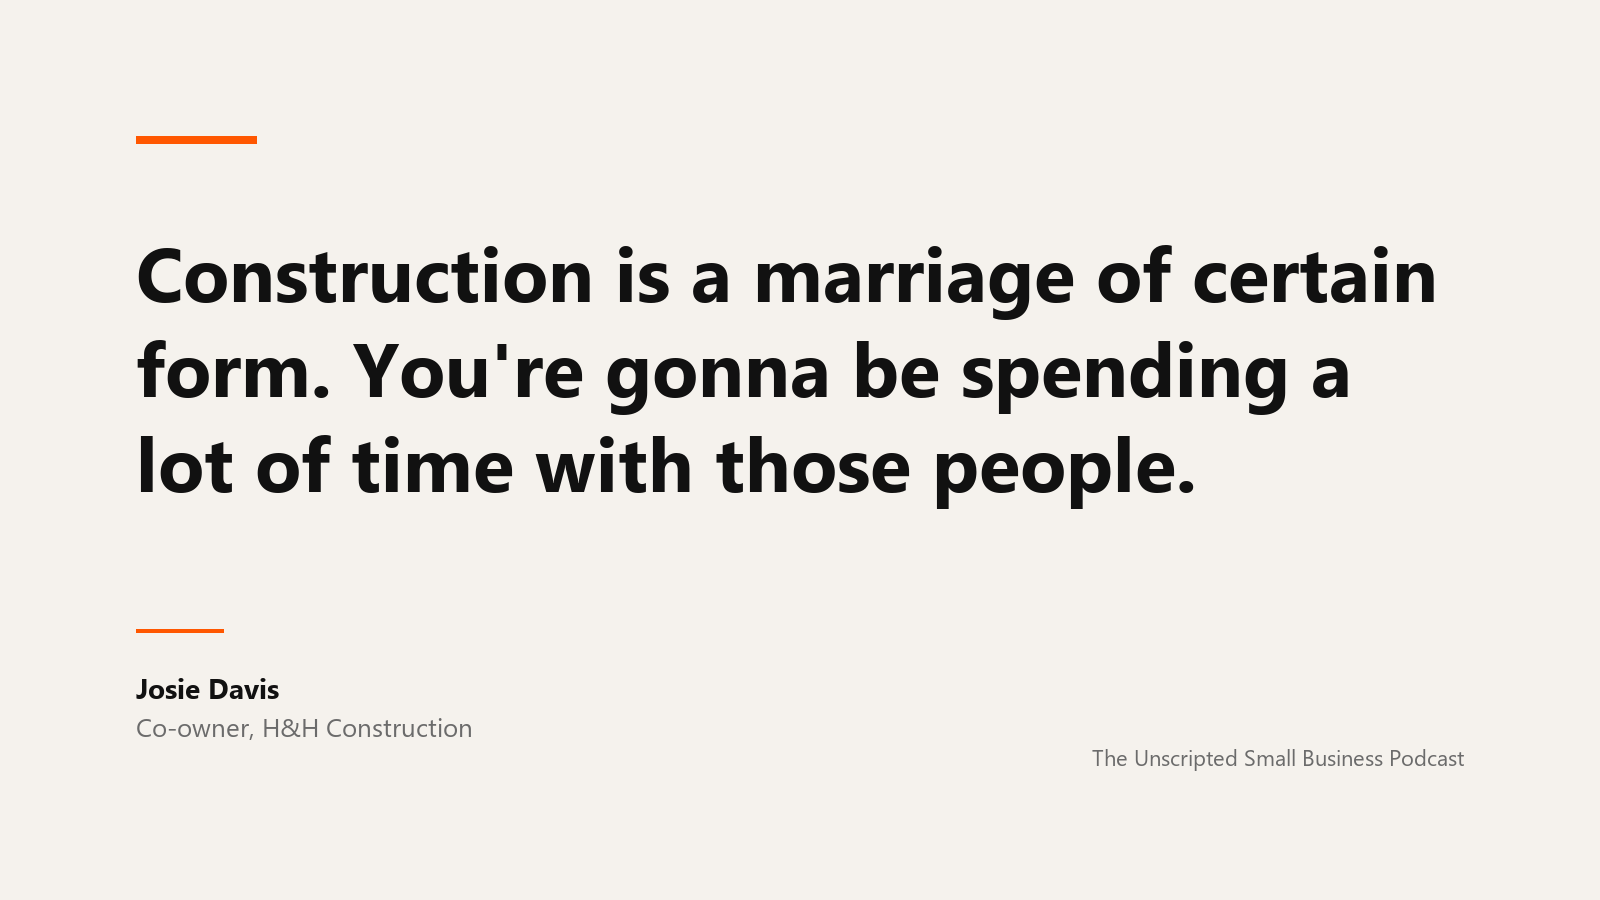
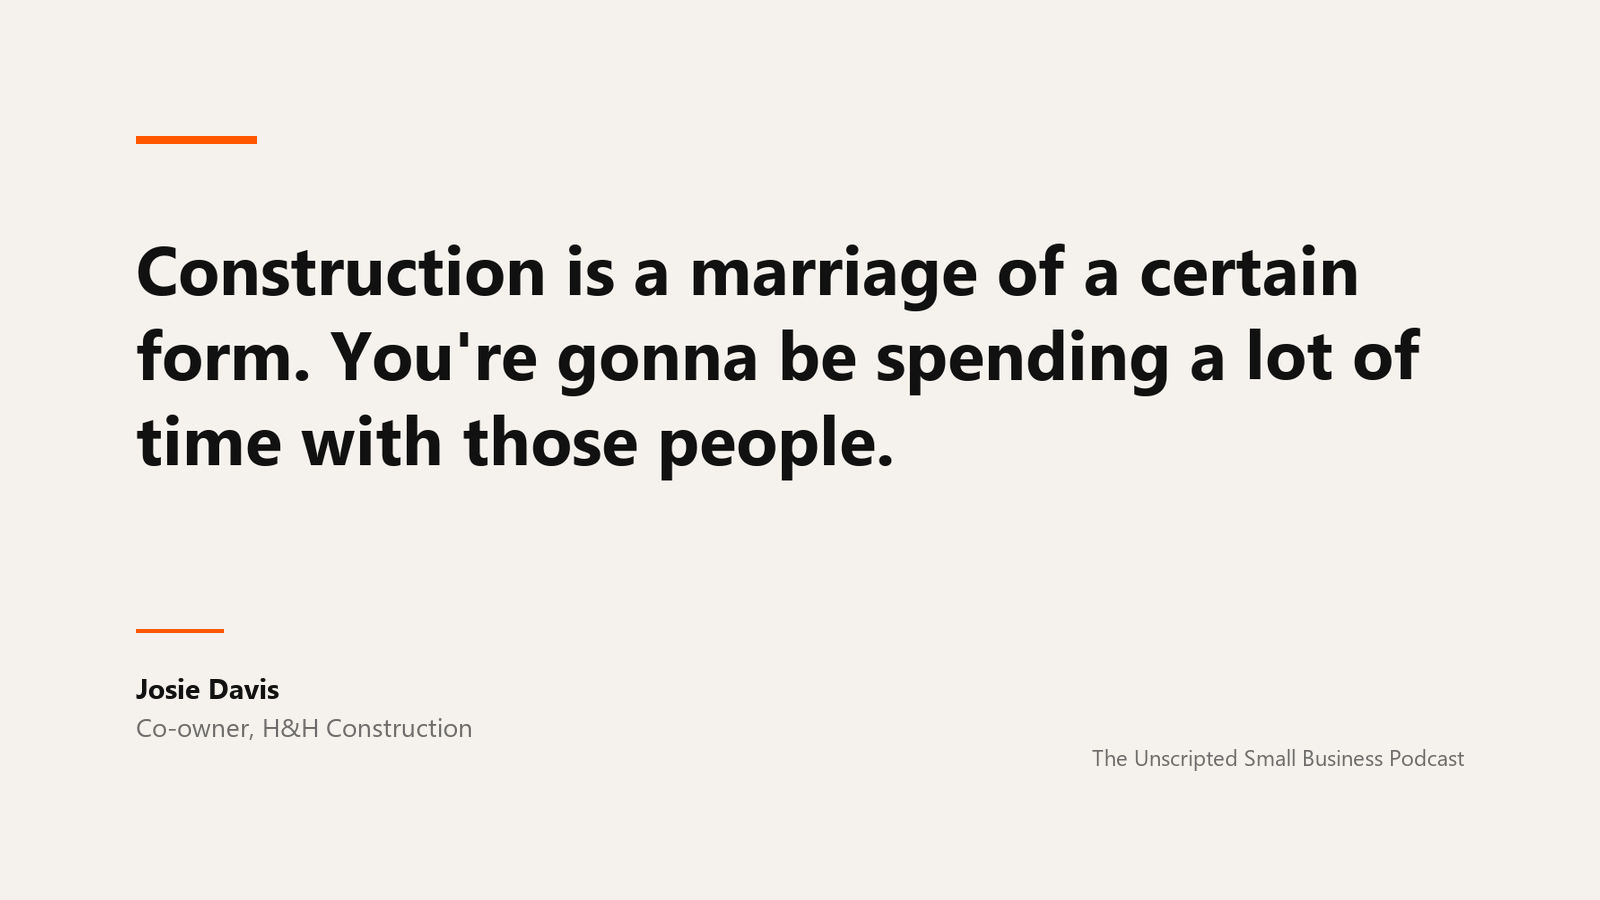
Editing pass for readers
- Cut the reviewer-facing Method footer, tool names in the chart subtitles,
  and product detours that interrupted the guide.
- Josie Davis quote card now matches the recording; dropped two quote cards.
- Small clarity fixes; publish date set to today.

Changed region(s): [[0.0625, 0.2489, 0.9062, 0.56]]

diff --git a/web/content/blogs/local-seo-for-service-businesses.md b/web/content/blogs/local-seo-for-service-businesses.md
@@ -1,8 +1,8 @@
 ---
 title: "Local SEO for Service-Based Businesses: An Owner's Guide"
-description: "An owner's guide to local SEO for service-based and home service businesses, worked on a real remodeler: the one Google Business Profile field that cost it half its town, and the prompts to check yours."
+description: "Local SEO for service businesses, worked on a real remodeler: the one Google Business Profile field that cost it half its town, and prompts to check yours."
 author: "Jeremy Rivera"
-date: "2026-09-28"
+date: "2026-10-05"
 ---
 
 Google decides whether a service business shows up in the map pack by asking three questions of each search: do you do the thing, are you near the person searching, and do people vouch for you. You control two of them. This guide runs all three on a real remodeler in Cookeville, Tennessee, and gives you the prompts to run the same checks on your own business in OpenSEO.
@@ -11,9 +11,7 @@ H&H Construction has a 5.0 rating from ten reviews, and all ten are five stars. 
 
 It still loses the north end of its own town for _kitchen remodeling_ to a showroom with a 4.6. The cause is one field in the profile and a review count the showroom has spent years building.
 
-You'll see both below, with the numbers, and you'll see how to find the same thing on your business in an afternoon. If you own a home service or trade business, or you're the person inside one who got handed "fix our Google," this guide is written for you. If you run these accounts for clients, there's a section near the end for you. And if you're building a software company rather than a service business, start with the sister piece, [SEO for Startups: A Founder's Handbook](/blogs/seo-for-startups).
-
-If you want an agent to do the legwork, connect [OpenSEO MCP](/docs/mcp) first so it can pull live profile, map and keyword data. If you're not sure where to start, use the [SEO coach](/docs/skills/seo-coach). If this is a new site or a business you took on this month, begin with [SEO project setup](/docs/skills/seo-project-setup). Each step below comes with a prompt you can paste in.
+If you want an agent to do the legwork, connect [OpenSEO MCP](/docs/mcp) first so it can pull live profile, map and keyword data. Each step below comes with a prompt you can paste in, and the [Local SEO skill](/docs/skills/local-seo) runs the profile, competitor and map checks together.
 
 ## Table of Contents
 
@@ -35,25 +33,17 @@ The map pack is the block of three businesses with a map that sits above the reg
 - Distance is how far you are from the person searching. You can't move the shop. You can stop measuring your rankings from inside it, which is the mistake most owners make.
 - Prominence is how well-known you are. Google puts it this way: "More reviews and positive ratings can help your business's local ranking." You control this too, over months.
 
-Knowing the three factors won't tell you which one is costing you jobs. To find that, you have to check each one against a real business, and that's what the next five sections do with a remodeler that has perfect reviews.
-
-And you're not the only one who's noticed there's money in the trades. [Benjamin Behrooz](https://unscriptedseo.com/benjamin-behrooz-empathy-blue-collar-marketing-ai/), who runs street-team marketing for home service companies out of Los Angeles, put it this way on the podcast:
-
-![A quote card reading: We know the future millionaires of this country are gonna be blue collar workers and right now other people know this too. Attributed to Benjamin Behrooz, Branding Los Angeles, from The Unscripted SEO Interview Podcast.](/blog/local-seo-for-service-businesses/quote-future-millionaires.png)
-
-Other people knowing it means a crowded map, and on a crowded map the settings you control carry more weight.
-
 ## Local keyword research: find the words customers use to hire you
 
 Before you touch your profile, find out what people type when they want to hire you. Your vocabulary and theirs often don't match. We ran H&H's main service, `kitchen remodeling`, through OpenSEO's [keyword research](/docs/skills/keyword-research), and this is the raw result:
 
-![OpenSEO Keyword Research results for the seed kitchen remodeling in the United States, September 28, 2026, dark theme. 149 keywords. Top rows: Kitchen Cabinets 246,000, High End Kitchen 201,000, Craft Street Kitchen 110,000, Kitchen Remodeling Near Me 74,000 with a difficulty score of 15, Kitchen Remodel 60,500, Preppy Kitchen 49,500.](/blog/local-seo-for-service-businesses/keyword-research-kitchen-remodeling-openseo.png)
+![OpenSEO Keyword Research results for the seed kitchen remodeling in the United States, September 28, 2026. 149 keywords. Top rows: Kitchen Cabinets 246,000, High End Kitchen 201,000, Craft Street Kitchen 110,000, Kitchen Remodeling Near Me 74,000 with a difficulty score of 15, Kitchen Remodel 60,500, Preppy Kitchen 49,500.](/blog/local-seo-for-service-businesses/keyword-research-kitchen-remodeling-openseo.png)
 
 Look at what sits above the one you want. `kitchen cabinets` at 246,000 a month is people shopping for boxes. `preppy kitchen` is a cooking channel. `kitchen island ideas` is somebody on a Sunday afternoon with a Pinterest board. Those searchers aren't hiring a contractor. Ranking for them would put you in front of [the wrong half of your audience](/blogs/wrong-half-of-your-audience).
 
-The search that pays is fourth: `kitchen remodeling near me`, 74,000 a month, difficulty 15. Right behind it is `kitchen remodel` at 60,500 and `kitchen renovation` at 18,100. Those three are your customer talking. The rest of the list is noise you'll be tempted to chase because the number is bigger.
+The search that pays is fourth: `kitchen remodeling near me`, 74,000 a month, difficulty 15. Right behind it are `kitchen remodel` at 60,500 and `kitchen renovation` at 18,100. Those three are your customer talking. The rest of the list is noise you'll be tempted to chase because the number is bigger.
 
-Those are national numbers, so use them to learn _which words_ people use. They don't tell you how many of those people live near you. OpenSEO can pull volume for a single city or county if you give it one, at an extra credit cost per seed. For a town the size of Cookeville, expect small numbers, and don't let that scare you off. [Jonathan Schüßler](https://unscriptedseo.com/how-one-freelancer-ranks-in-50-german-towns-with-programmatic-seo/), who does SEO for service businesses in Germany, built a wedding photography business on search terms other photographers ignored for being too small:
+Those are national estimates, so use them to learn _which words_ people use. They don't tell you how many of those people live near you. OpenSEO can pull volume for a single city or county if you give it one, at an extra credit cost per seed. For a town the size of Cookeville, expect small numbers, and don't let that scare you off. [Jonathan Schüßler](https://unscriptedseo.com/how-one-freelancer-ranks-in-50-german-towns-with-programmatic-seo/), who does SEO for service businesses in Germany, built a wedding photography business on search terms other photographers ignored for being too small:
 
 ![A quote card reading: Why not target the one where all the most expensive stuff is happening, but there's not many clicks. Attributed to Jonathan Schüßler, freelance SEO for service businesses, from The Unscripted SEO Interview Podcast.](/blog/local-seo-for-service-businesses/quote-not-many-clicks.png)
 
@@ -70,7 +60,7 @@ me volume and difficulty for each group, highest-value service first.
 
 ## Google Business Profile optimization starts with your categories
 
-Now pull your own Google Business Profile (called Google My Business until 2021), and read it like a stranger would. OpenSEO's [Local SEO skill](/docs/skills/local-seo) starts here too. This is H&H's profile, re-checked in OpenSEO on September 28, 2026:
+Now pull your own Google Business Profile (called Google My Business until 2021), and read it like a stranger would. This is H&H's profile in OpenSEO as of September 28, 2026:
 
 | Field                     | H&H Construction                                                                |
 | ------------------------- | ------------------------------------------------------------------------------- |
@@ -110,24 +100,25 @@ Search your main service from three or four different parts of your service area
 
 ### Local SEO for service area businesses
 
-Plenty of plumbers, cleaners and landscapers run what Google calls a service area business: no storefront, and the address hidden on the profile. The check works the same way: centre the grid on your address anyway, then add a check or two from the towns you most want work from. Those are the points that tell you whether your profile reaches the jobs you're driving to.
+Plenty of plumbers, cleaners and landscapers run what Google calls a service area business: no storefront, and the address hidden on the profile. The check works the same way: center the grid on your address anyway, then add a check or two from the towns you most want work from. Those are the points that tell you whether your profile reaches the jobs you're driving to.
 
 ```text
-Use OpenSEO to run a 3x3 local rank grid for "[main service]" centred on
-my business at [address], 8 km between points, on mobile. Show my position
-at each point. For every point where I'm not #1, name the business that is,
-and tell me whether it's closer to that point than I am.
+Use OpenSEO to run a 3x3 local rank grid for "[main service]" centered on
+my business, [business name], at [address], 8 km between points, on
+mobile. Show my position at each point. For every point where I'm not #1,
+name the business that is, and tell me whether it's closer to that point
+than I am.
 ```
 
 ## Local competitor analysis: compare your profile to the business outranking you
 
-Compare against the business taking the points you lost, even if it's smaller than the big names in town. (The [competitor analysis skill](/docs/skills/competitor-analysis) does this for websites; for map listings, the profile pull below is enough.) For H&H, that's Cookeville Kitchen Sales, a kitchen showroom 3.9 km north-north-east of H&H's office. The two profiles compare like this:
+Compare against the business taking the points you lost, even if it's smaller than the big names in town. For H&H, that's Cookeville Kitchen Sales, a kitchen showroom 3.9 km north-north-east of H&H's office. The two profiles compare like this:
 
-![Side-by-side comparison of two Google Business Profiles, both re-checked September 28, 2026. Category: H&H Construction, Remodeler; Cookeville Kitchen Sales, Kitchen remodeler. Rating 5.0 against 4.6. Reviews 10 against 67. Photos 35 against 67. Services listed 29 against 11. Attributes set 4 against 8. H&H wins rating and services; the competitor wins category, reviews, photos and attributes.](/blog/local-seo-for-service-businesses/gbp-head-to-head-openseo.png)
+![Side-by-side comparison of two Google Business Profiles, both as of September 28, 2026. Category: H&H Construction, Remodeler; Cookeville Kitchen Sales, Kitchen remodeler. Rating 5.0 against 4.6. Reviews 10 against 67. Photos 35 against 67. Services listed 29 against 11. Attributes set 4 against 8. H&H wins rating and services; the competitor wins category, reviews, photos and attributes.](/blog/local-seo-for-service-businesses/gbp-head-to-head-openseo.png)
 
 H&H wins on rating and on range of services. It loses on an exact-match category and a review count 6.7 times smaller, which map to two of Google's three factors: relevance and prominence.
 
-Before you blame distance, test it. We measured each grid point's distance to both businesses:
+Before you blame distance, test it. We measured the straight-line distance from each grid point to both businesses:
 
 | Grid point                      | To H&H    | To the competitor | Who's #1       |
 | ------------------------------- | --------- | ----------------- | -------------- |
@@ -135,10 +126,10 @@ Before you blame distance, test it. We measured each grid point's distance to bo
 | North                           | 8.0 km    | 5.3 km            | Competitor     |
 | North-east                      | 11.3 km   | 7.6 km            | Competitor     |
 | East                            | 8.0 km    | 6.6 km            | Competitor     |
-| West, centre, south-west, south | 0–11.3 km | 3.9–15.2 km       | H&H            |
+| West, center, south-west, south | 0–11.3 km | 3.9–15.2 km       | H&H            |
 | South-east                      | 11.3 km   | 12.6 km           | **Competitor** |
 
-Distance explains most of the map. Wherever the showroom is closer, it wins, and no setting will change where it's parked. But look at the two rows in bold. In the north-west the two businesses are the same distance away, and in the south-east H&H is 1.3 km _closer_. The showroom wins both. On a tie, the business whose category says "kitchen" and whose review count is 67 came out ahead. Those are the two rows you can change.
+Distance explains most of the map. Wherever the showroom is closer, it wins, and no setting will change where it's parked. But look at the two rows in bold. In the north-west the two businesses are the same distance away, and in the south-east H&H is 1.3 km _closer_. The showroom wins both. On a tie, the business whose category says "kitchen" and whose review count is 67 came out ahead, and you can change both of those.
 
 ```text
 Use OpenSEO to pull the Google Business Profile for [competitor name] in
@@ -154,30 +145,30 @@ You can fix a category in five minutes. You can't close a 10-to-67 gap in Google
 
 ![A quote card reading: Whoever has the most reviews, the most recent reviews is often gonna be near the top, especially if you're apples to apples. Attributed to Drew Dorenfest, founder of Client Magnet CRM, from The Unscripted SEO Interview Podcast.](/blog/local-seo-for-service-businesses/quote-most-recent-reviews.png)
 
-"Apples to apples" is the north-west corner of that grid: same distance, same service, and the tie goes to the pile of recent reviews. Drew's own fix is boring and it works: an automatic thank-you email with a direct link to leave a Google review, sent when a job is marked complete, so the ask doesn't depend on anyone's memory. Reviews are the local version of links, and if you want the website side too, the [link prospecting skill](/docs/skills/link-prospecting) finds local sites worth a mention and the free [backlink checker](/backlink-checker) shows who links to the business beating you.
+"Apples to apples" is the north-west corner of that grid: same distance, same service, and the tie goes to the pile of recent reviews. Drew's own fix is boring and it works: an automatic thank-you email with a direct link to leave a Google review, sent when a job is marked complete, so the ask doesn't depend on anyone's memory.
 
-The better moment is before the email, while you're still standing in the finished kitchen. Josie Davis, who co-owns H&H with her husband Alec, [described what their customers say at the end of a job](https://unscriptedsmallbusiness.com/dominating-cookeville-home-renovation-additions-remodeling-hh-construction/): "we don't know what we're gonna do once we're not talking to you every day." That's the sentence to listen for. A customer who says it will write you a review if you ask.
+The better moment is before the email, while you're still standing in the finished kitchen. Josie Davis, who runs H&H with her husband Alec, [described what their customers say at the end of a job](https://unscriptedsmallbusiness.com/dominating-cookeville-home-renovation-additions-remodeling-hh-construction/): "we don't know what we're gonna do once we're not talking to you every day." That's the sentence to listen for. A customer who says it will write you a review if you ask.
 
-![A quote card reading: Construction is a marriage of certain form. You're gonna be spending a lot of time with those people. Attributed to Josie Davis, co-owner of H&H Construction, from The Unscripted Small Business Podcast.](/blog/local-seo-for-service-businesses/quote-marriage-of-certain-form.png)
+![A quote card reading: Construction is a marriage of a certain form. You're gonna be spending a lot of time with those people. Attributed to Josie Davis, co-owner of H&H Construction, from The Unscripted Small Business Podcast.](/blog/local-seo-for-service-businesses/quote-marriage-of-certain-form.png)
 
 Her ten reviews are all five stars, and that's worth protecting while you grow the count. Ask the customers who would describe the job the way she describes the work. Don't buy reviews, and don't offer anything for them.
 
 ## Your local SEO checklist for this week
 
-### The fix: add `Kitchen remodeler` as an additional category
+### H&H's fix: add `Kitchen remodeler` as an additional category
 
 It's free and it takes about five minutes in the profile editor. The primary category stays `Remodeler`, so the general remodeling searches aren't touched. The business already does the work, and customers already say so in reviews. The category is the only place that doesn't.
 
-Set your expectations by the distance table. The two tie-break points, north-west and south-east, are where a category change has the best chance of showing up. The north-east corner, where the showroom is 3.7 km closer, should stay theirs. The goal is to stop losing the points where you're as close as they are.
+Set your expectations by the distance table. The two tie-break points, north-west and south-east, are where a category change has the best chance of showing up. The north-east corner, where the showroom is 3.7 km closer, should stay theirs.
 
-A snapshot isn't an experiment, so don't treat any change in the first week as proof. Change one thing, wait three weeks, and re-run the exact same grid.
+A grid is a snapshot of one day, so don't treat any change in the first week as proof.
 
 1. Add the missing category today, and change nothing else on the profile so you'll know what moved it.
 2. Through the month, ask each finished customer for a review in person on the day the job ends.
-3. In three weeks, re-run the grid with the same keyword, centre and spacing, and compare it point by point.
+3. In three weeks, re-run the grid with the same keyword, center and spacing, and compare it point by point.
 
 ```text
-Use OpenSEO to re-run my local rank grid for "[main service]": same centre
+Use OpenSEO to re-run my local rank grid for "[main service]": same center
 ([address]), same 3x3 size, same 8 km spacing, mobile. Compare it point by
 point with my last run from [date]. Tell me which points moved, which
 business holds #1 at each point now, and whether my profile changed in
@@ -186,13 +177,9 @@ between.
 
 ## Local SEO reporting for agencies and in-house teams
 
-Agencies and in-house marketers doing local SEO for clients get this job with an extra step: somebody else has to agree before anything changes. The grid is the thing that gets them to agree. An owner who has shrugged at ranking reports for years will believe a map of their own town with a competitor's name on the squares they lost.
+Agencies and in-house marketers get this job with an extra step: somebody else has to agree before anything changes. An owner who has shrugged at ranking reports for years will believe a grid of their own town with a competitor's name on the squares they lost.
 
-Keep the local SEO report on what the owner can feel. Drew said it better than any reporting template I've seen:
-
-![A quote card reading: Conversions are the only metric I care about. Traffic is nice, but conversions, more sales is something that the business owner can feel. Attributed to Drew Dorenfest, founder of Client Magnet CRM, from The Unscripted SEO Interview Podcast.](/blog/local-seo-for-service-businesses/quote-conversions-only-metric.png)
-
-Lead with the map, name the one fix, and end on the date you'll check it again. The proof is calls and quote requests from the north end of town; the grid shows where to look. The [SEO report skill](/docs/skills/seo-report) turns the whole run into a client-ready report, and the [competitive landscape skill](/docs/skills/competitive-landscape) maps the whole pack, including businesses that aren't beating you yet. If you're new to steering an agent through this, [How to Prompt Claude Code for SEO](/blogs/how-to-prompt-claude-code-for-seo) is the companion to the prompts on this page.
+Lead the local SEO report with the grid, name the one fix, and end on the date you'll check it again. The grid shows where to look, but the owner will judge the fix by calls and quote requests from the north end of town. The [SEO report skill](/docs/skills/seo-report) turns the whole run into a client-ready report.
 
 ```text
 Use OpenSEO to build a one-page local SEO report for [client], a [trade]
@@ -207,6 +194,4 @@ we'll re-check.
 
 If you show up at your front door and disappear a few miles out, check Google's three questions in this order: distance, which you can't change; your business category, which takes five minutes to fix; and your Google reviews, which take months. For H&H, the gap was a category that didn't say "kitchen" and a review count 6.7 times smaller.
 
-For a second opinion on where to start, the free [competitor keyword finder](/competitor-keyword-finder) shows what the business beating you ranks for, and [OpenSEO](https://openseo.so/) runs each check on this page. It's free to try, and the managed plan is $10 a month.
-
-_Method: the business figures came from OpenSEO between September 24 and 28, 2026, using `search_local_businesses`, `get_business_profile`, `get_local_rank_grid` and Keyword Research. Search volume and difficulty are third-party estimates, so treat them as directional. Distances are straight-line from each grid point to each business's map pin. The grid is a snapshot from one day. Quotes are verbatim from recorded interviews on The Unscripted SEO Interview Podcast and [Unscripted Small Business](https://unscriptedsmallbusiness.com/)._
+For a second opinion on where to start, the free [competitor keyword finder](/competitor-keyword-finder) shows what the business beating you ranks for, the free [backlink checker](/backlink-checker) shows who links to it, and [OpenSEO](https://openseo.so/) runs each check on this page. It's $10 a month with $10 of usage credits included, and signing up is free with $0.50 of trial credits.
